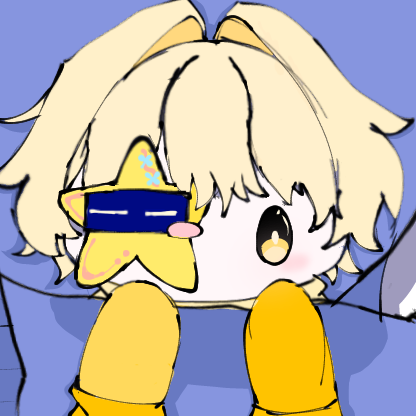
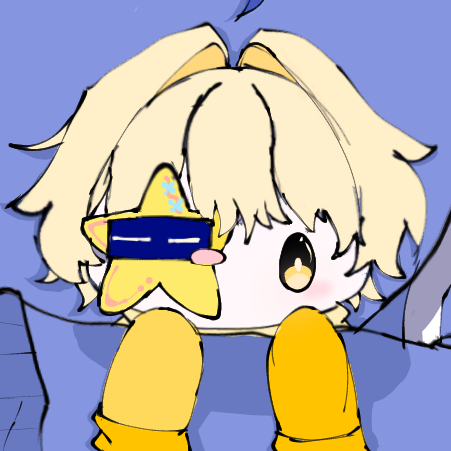
new pfp

diff --git a/index.html b/index.html
@@ -408,7 +408,7 @@
     <div class="top">
       <div class="pic-wrap">
         <button class="pic" type="button" aria-label="Boop hucklberi">
-          <img src="avatar.png" alt="hucklberi’s profile picture: a blond character peeking out from behind a yellow star with a sleepy mask" width="416" height="416">
+          <img src="avatar.png?v=2" alt="hucklberi’s profile picture: a blond character peeking out from behind a yellow star with a sleepy mask" width="451" height="451">
         </button>
       </div>
 
